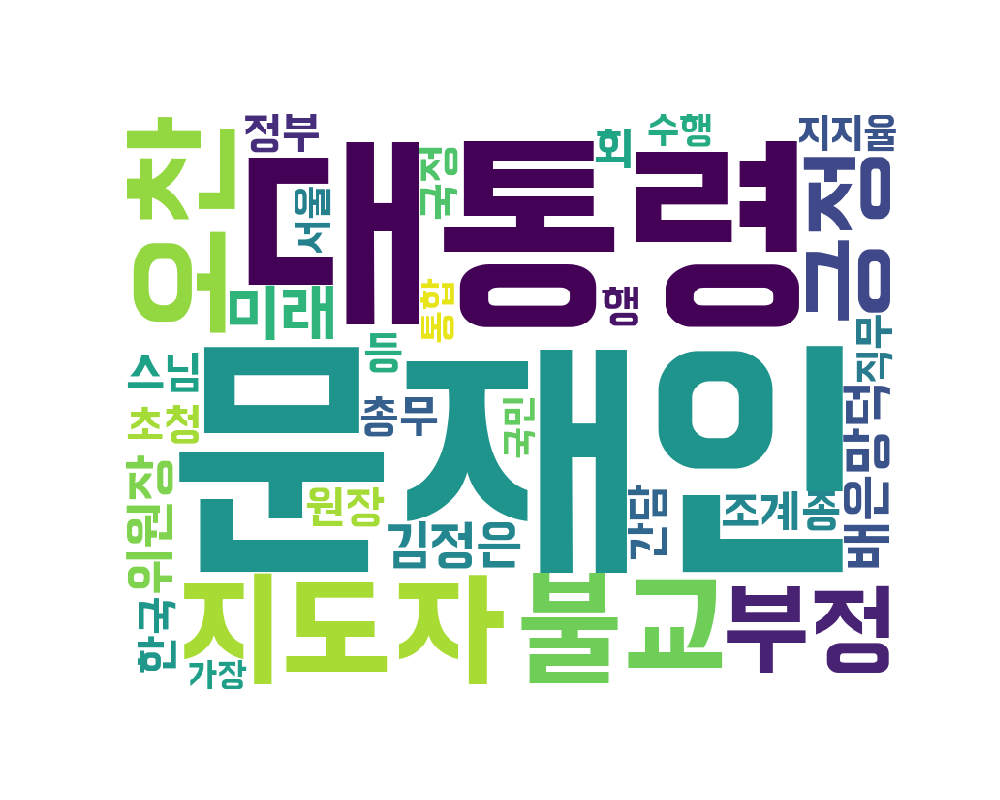
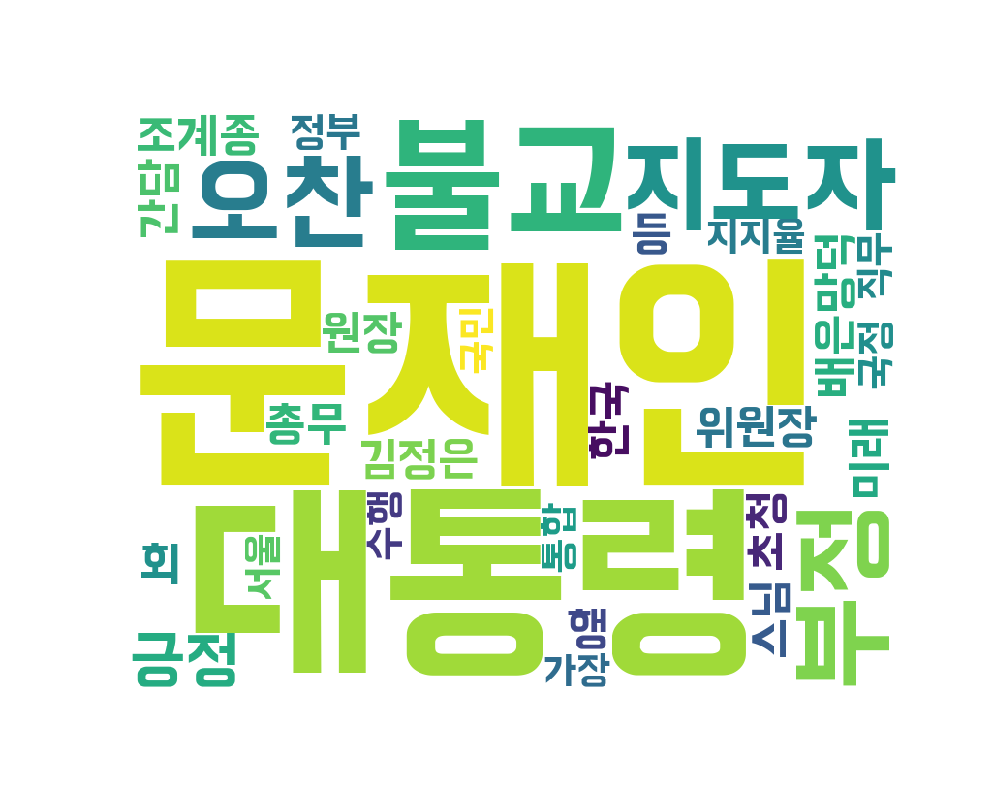
190728 : CHANGE CODE

diff --git a/MakeCloud.py b/MakeCloud.py
@@ -1,6 +1,6 @@
 # -*- coding: utf-8 -*-
 
-from konlpy.tag import Twitter
+from konlpy.tag import Okt
 import MakeCloud as cloud
 from collections import Counter
 from wordcloud import WordCloud
@@ -10,13 +10,13 @@ import matplotlib.pyplot as plt
 class Cloud:
 
     def __init__(self, cnt = 100):
-        self.twitter = Twitter()
+        self.okt = Okt()
         self.data = list()
         self.word_count = cnt
 
     
     def add_data(self, string):
-        input_data = self.twitter.nouns(string)
+        input_data = self.okt.nouns(string)
         self.data += input_data
 
     
